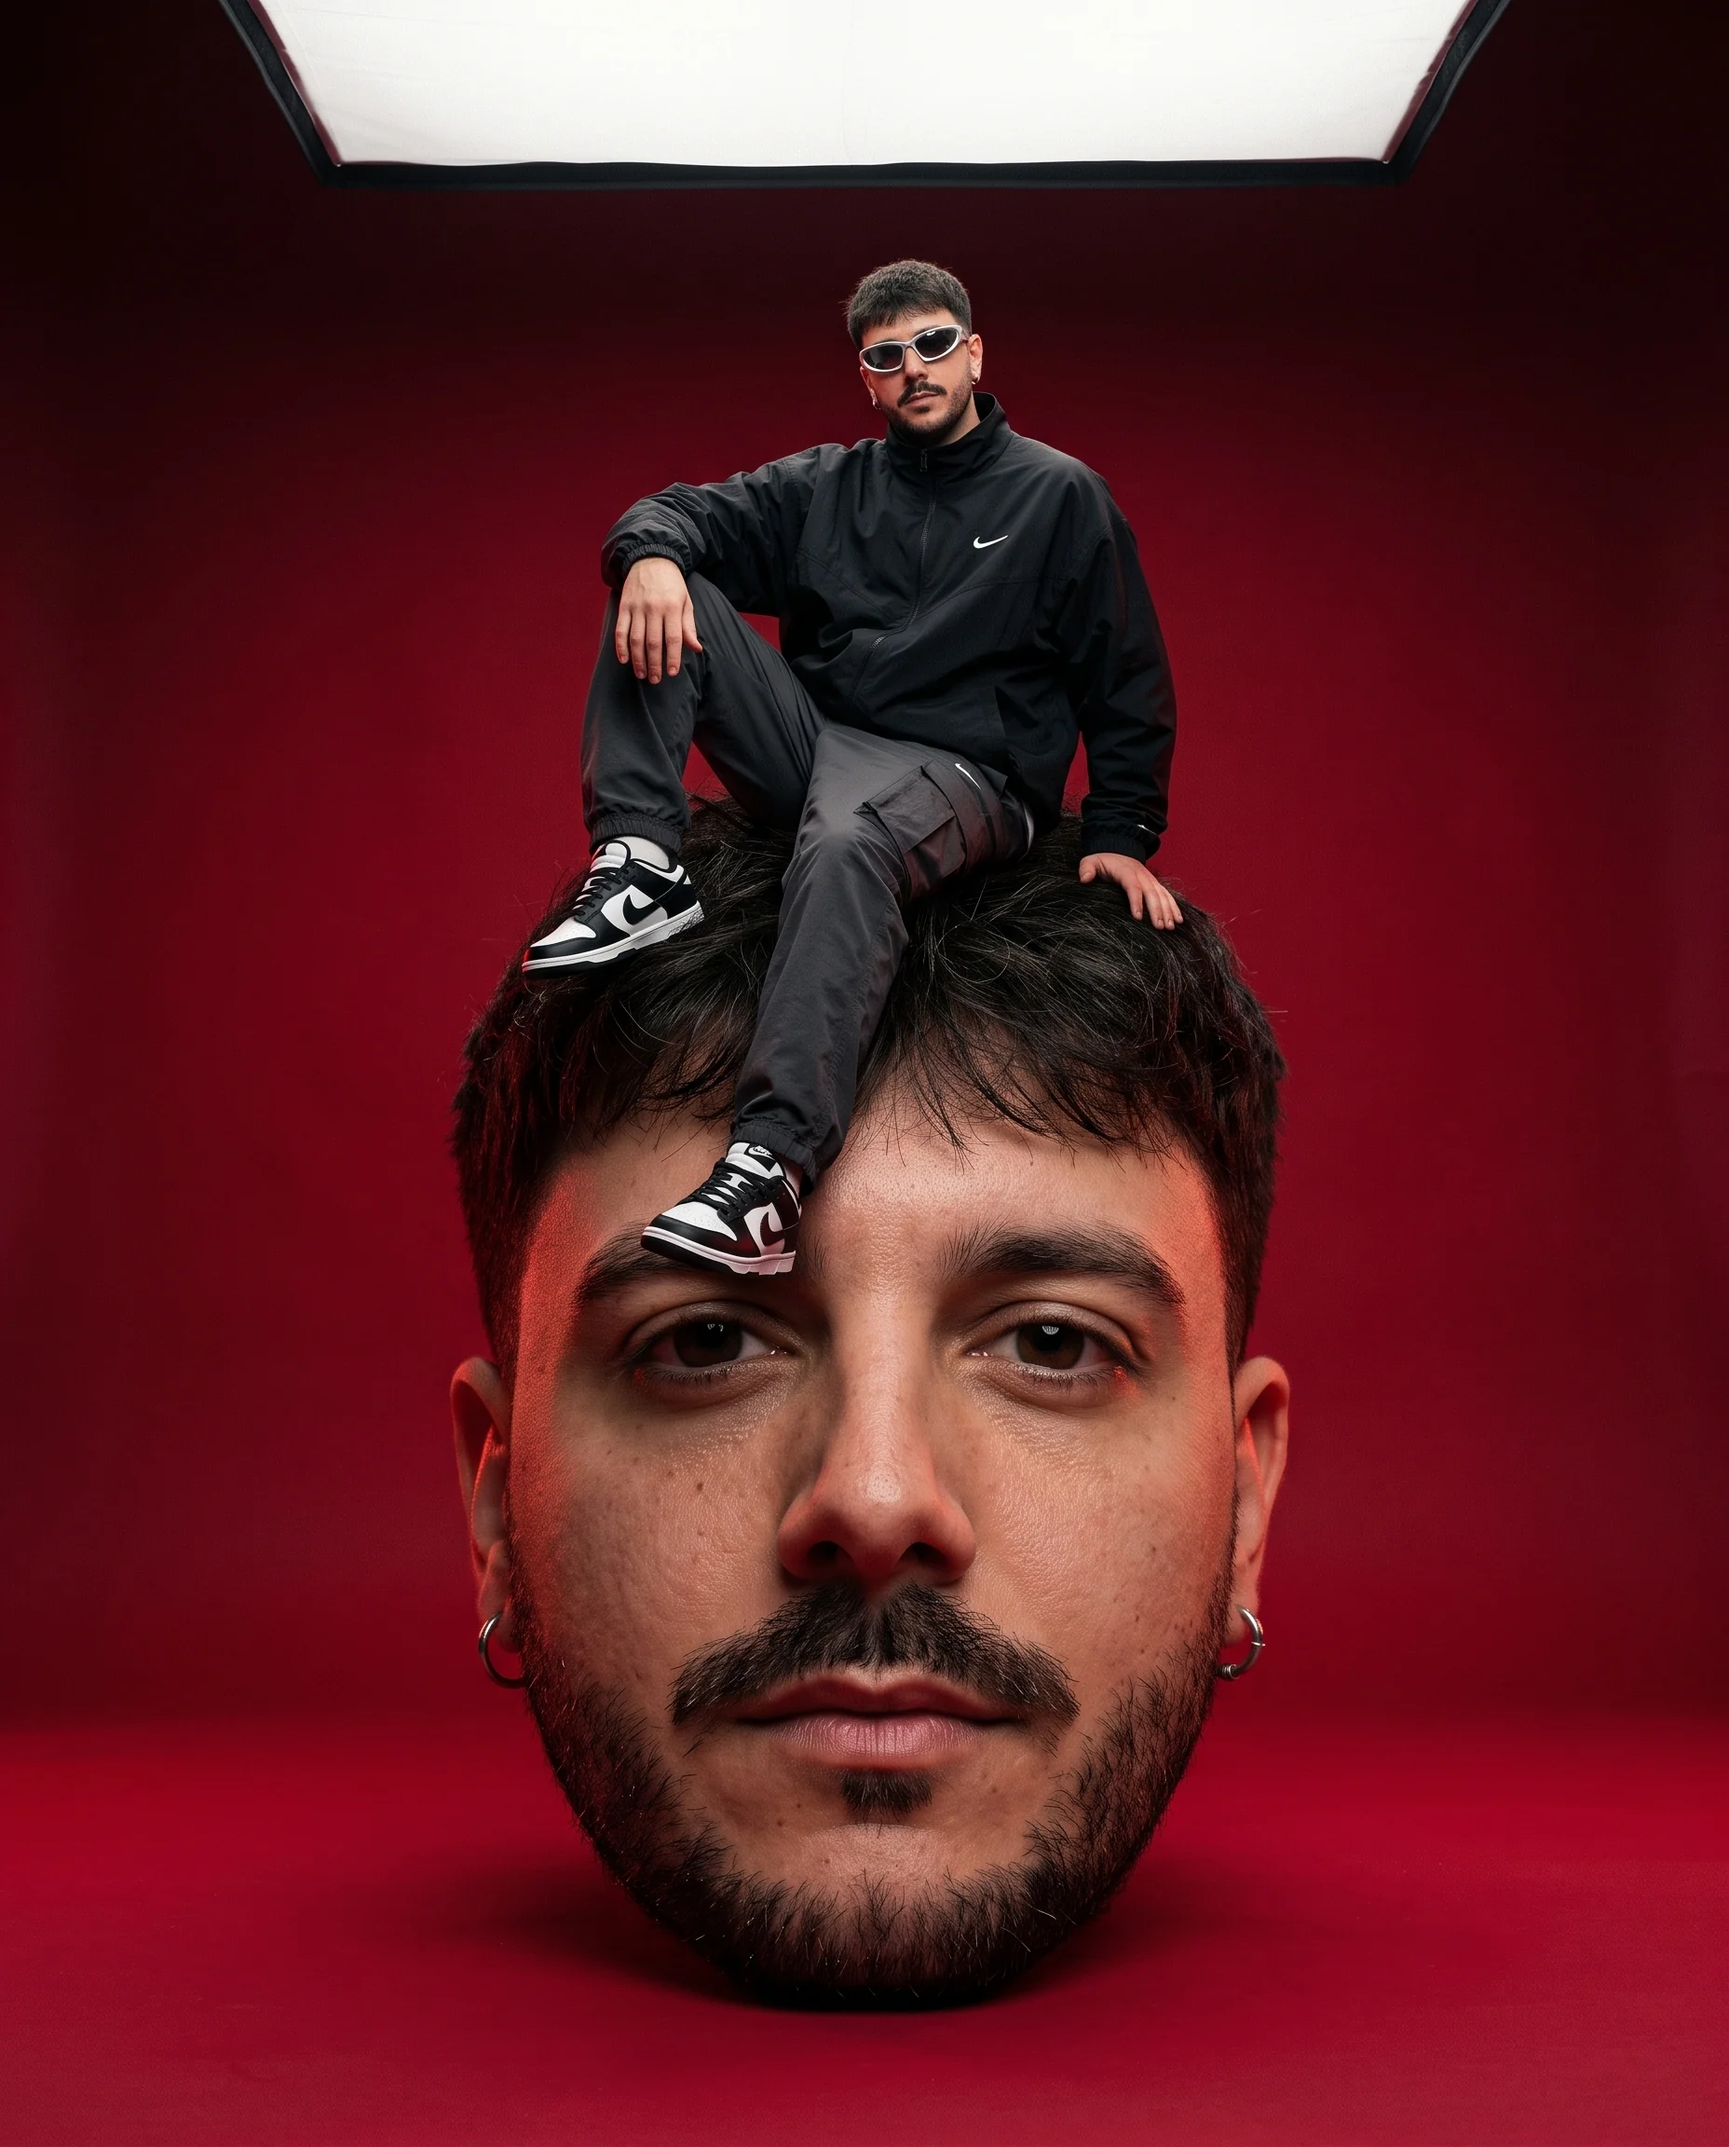
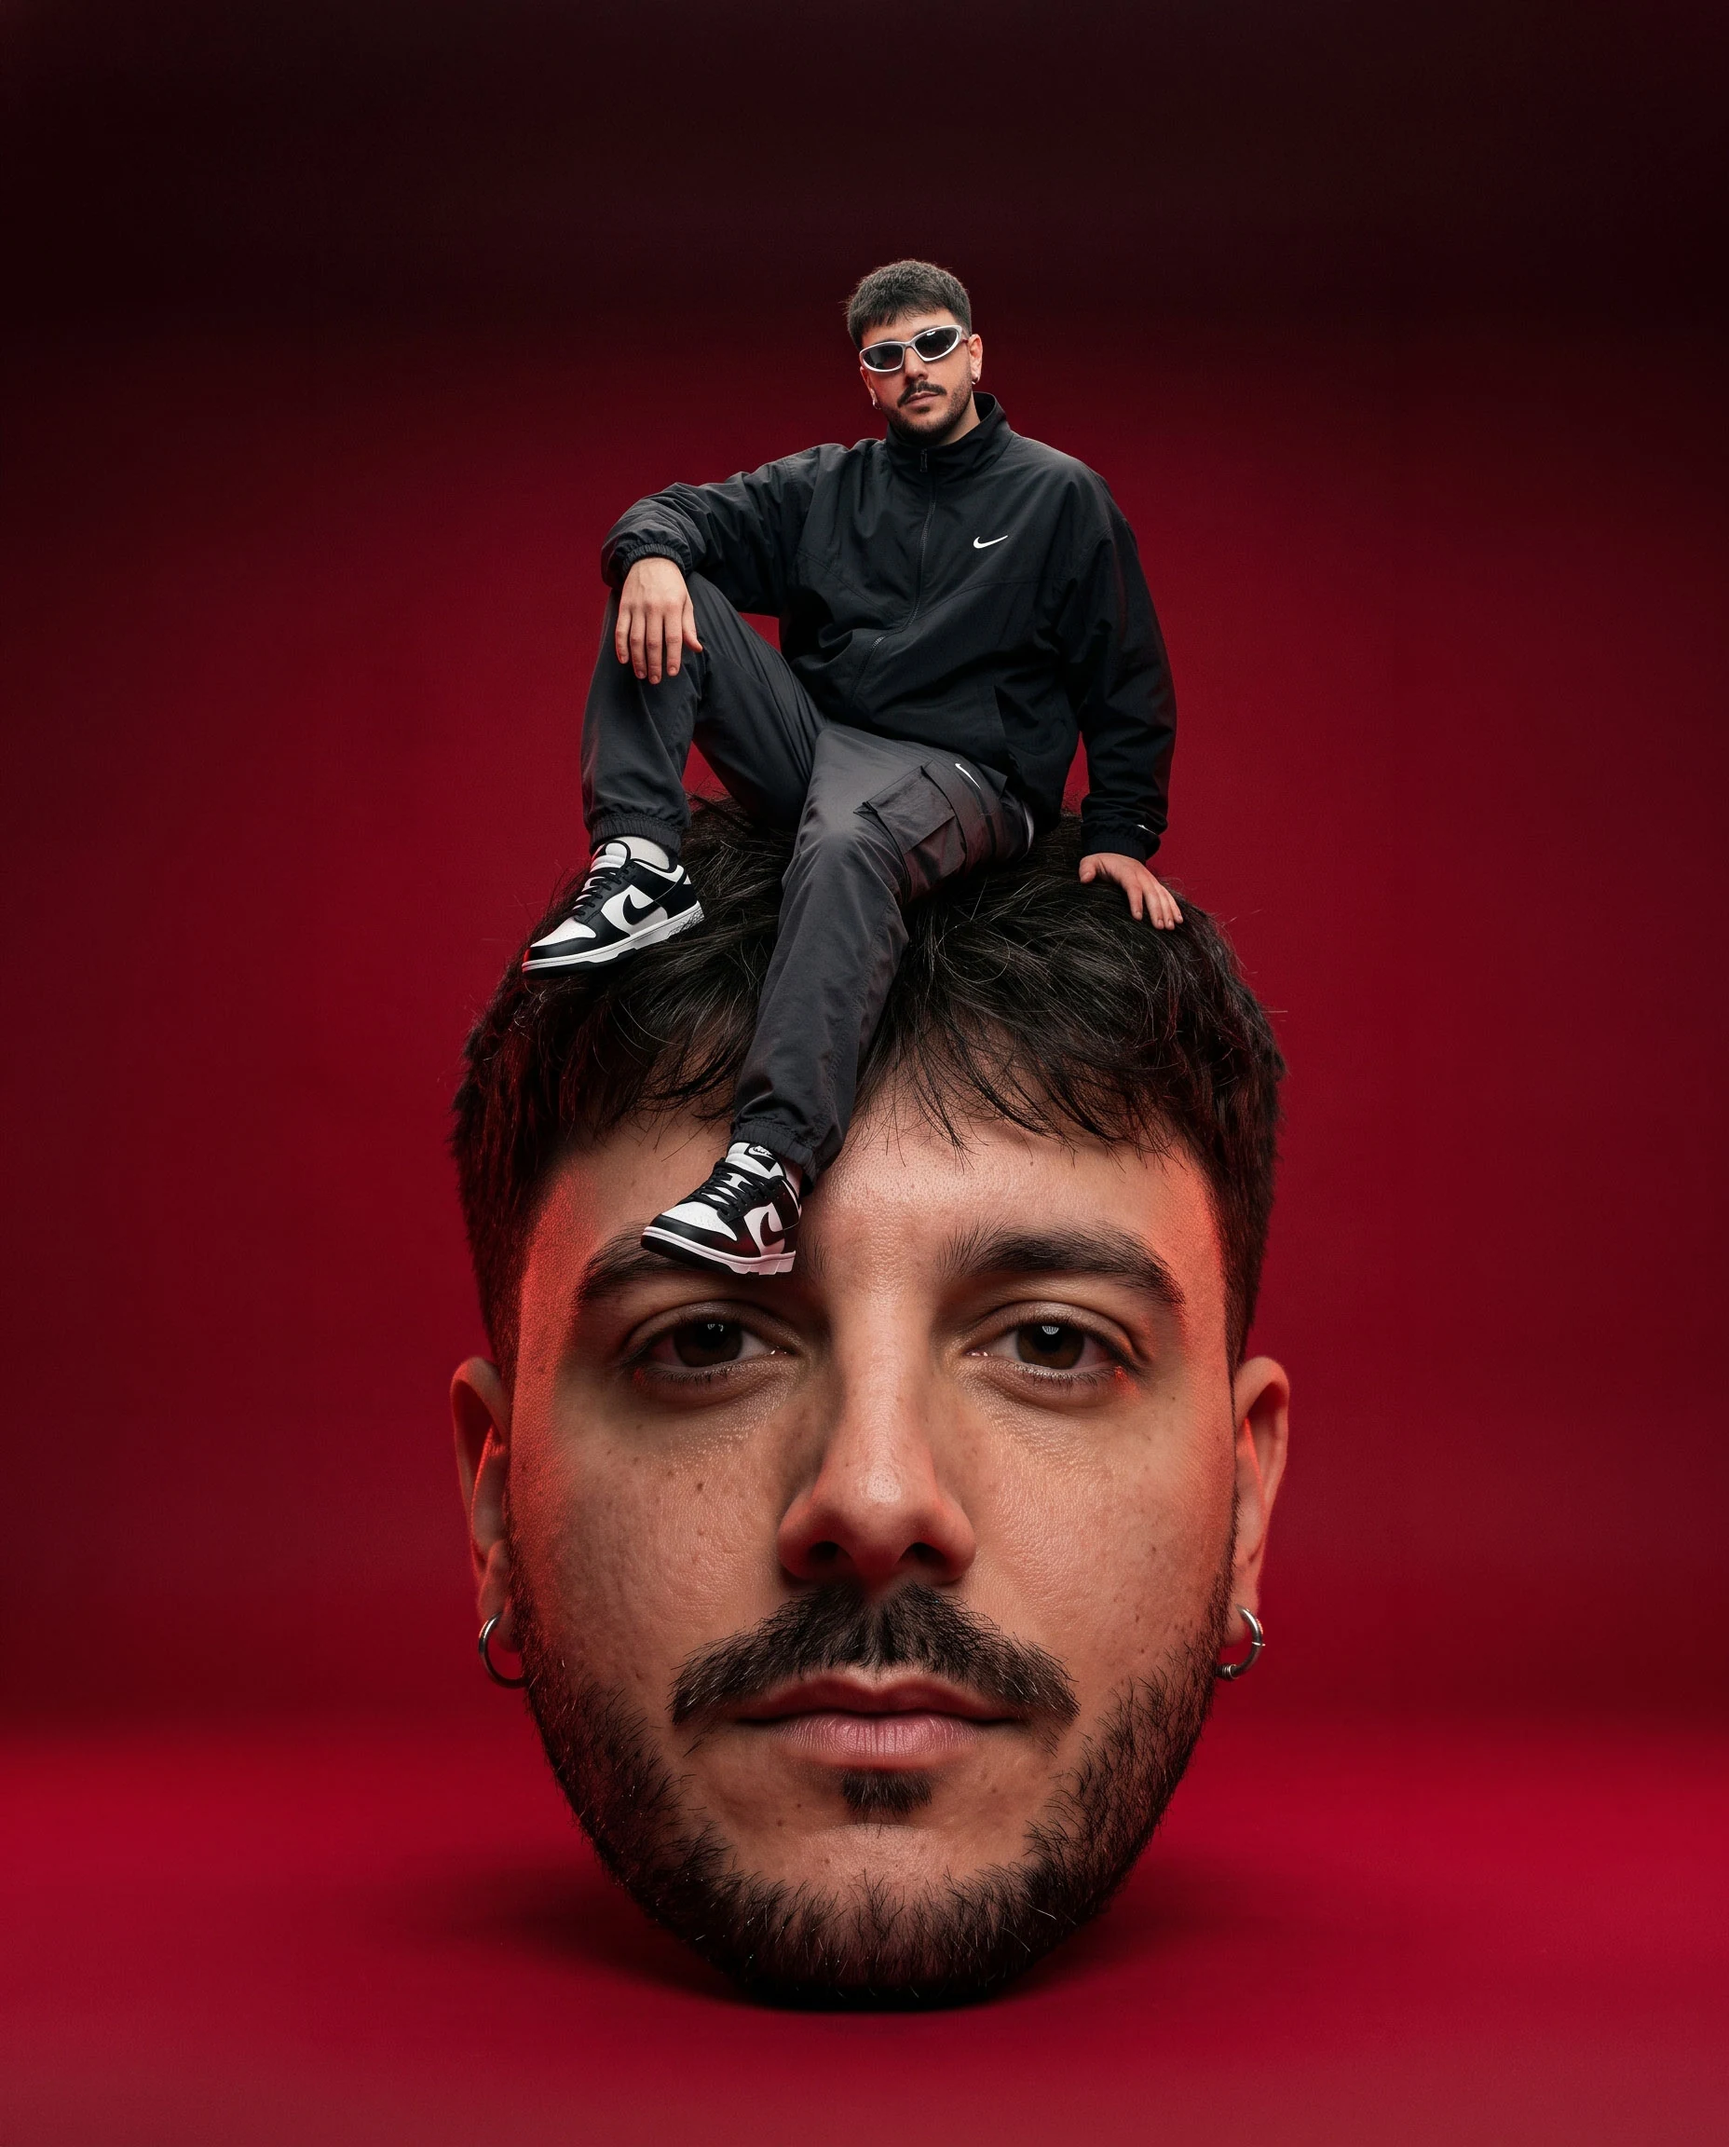
About: foto a sfondo rosso. IKEA: copertina su FRAKTA, foto su FRAKTA e BLÅHAJ a tutta larghezza

Changed region(s): [[0.125, 0.0, 0.875, 0.0938]]

diff --git a/_progetti/ikea-voglia-di-casa.md b/_progetti/ikea-voglia-di-casa.md
@@ -4,7 +4,7 @@ title_en: "IKEA, Feeling at home"
 categoria: "generative-ai"
 cliente: "ikea"
 anno: 2026
-copertina: "/assets/uploads/ikea-voglia-di-casa-01.webp"
+copertina: "/assets/uploads/ikea-voglia-di-casa-copertina.webp"
 sottotitolo: "Uno spazio di lavoro, un temporary store e nove vetrine"
 sottotitolo_en: "A workspace, a temporary store and nine displays"
 domanda: "Sentirsi a casa al primo sguardo."
@@ -79,6 +79,8 @@ galleria:
     testo: "Ho tradotto nove parole chiave in composizioni di prodotto, dal lusso della luce giusta alla fika svedese. E sì, su FRAKTA e su BLÅHAJ ci sono salito io."
     testo_en: "I turned nine keywords into product compositions, from the luxury of the right light to Swedish fika. And yes, that's me sitting on FRAKTA and BLÅHAJ."
   - type: "foto"
+    immagine: "/assets/uploads/ikea-voglia-di-casa-28.webp"
+  - type: "foto"
     immagine: "/assets/uploads/ikea-voglia-di-casa-19.webp"
     formato: "meta"
   - type: "foto"
@@ -88,13 +90,7 @@ galleria:
     immagine: "/assets/uploads/ikea-voglia-di-casa-21.webp"
     formato: "meta"
   - type: "foto"
-    immagine: "/assets/uploads/ikea-voglia-di-casa-28.webp"
-    formato: "meta"
-  - type: "foto"
     immagine: "/assets/uploads/ikea-voglia-di-casa-22.webp"
-    formato: "meta"
-  - type: "foto"
-    immagine: "/assets/uploads/ikea-voglia-di-casa-29.webp"
     formato: "meta"
   - type: "foto"
     immagine: "/assets/uploads/ikea-voglia-di-casa-23.webp"
@@ -108,6 +104,8 @@ galleria:
   - type: "foto"
     immagine: "/assets/uploads/ikea-voglia-di-casa-26.webp"
     formato: "meta"
+  - type: "foto"
+    immagine: "/assets/uploads/ikea-voglia-di-casa-29.webp"
   - type: "foto"
     immagine: "/assets/uploads/ikea-voglia-di-casa-27.webp"
 strumenti:

diff --git a/riassunto-cms.md b/riassunto-cms.md
@@ -247,6 +247,7 @@ I progetti in **bozza** non compaiono da nessuna parte sul sito.
 | 12/11/2026 | Aggiunti **IKEA, Voglia di casa** (Generative AI: Workspace, KOMPISHÄNG, Visual Display, dalla cartella `~/Desktop/Claude/IKEA Voglia di casa`; tolti tutti i riferimenti alla candidatura, la parte "Chi sono" e le foto personali) e **SITUATION** (Web Design). Audible spot online anche senza il video. Corrette le foto con parti trasparenti (righe e bande nere: la conversione ora le appoggia su bianco) e tolta da Blue Origin un'immagine troppo piccola |
 | 12/11/2026 | About me con la foto (seduto sulla propria testa). IKEA: gallerie divise in quattro sezioni (Workspace, KOMPISHÄNG, Visual Display) con due righe su cosa ho fatto, aggiunte le foto su FRAKTA e su BLÅHAJ. Nel pannello: nuovo elemento della galleria **Titolo di sezione**, e video `.mp4` riproducibili direttamente nella pagina |
 | 12/11/2026 | **BeYOU** tolto da IKEA e diventato un progetto a parte in Branding (logo e communication package per un hotel di lusso accessibile) |
+| 12/11/2026 | About me: foto con lo sfondo tutto rosso (`06_…_ok.jpg`). IKEA: copertina con la foto su FRAKTA; le foto su FRAKTA e su BLÅHAJ a tutta larghezza nella sezione Visual Display |
 ---
 
 ## 10. Prossimi passi
